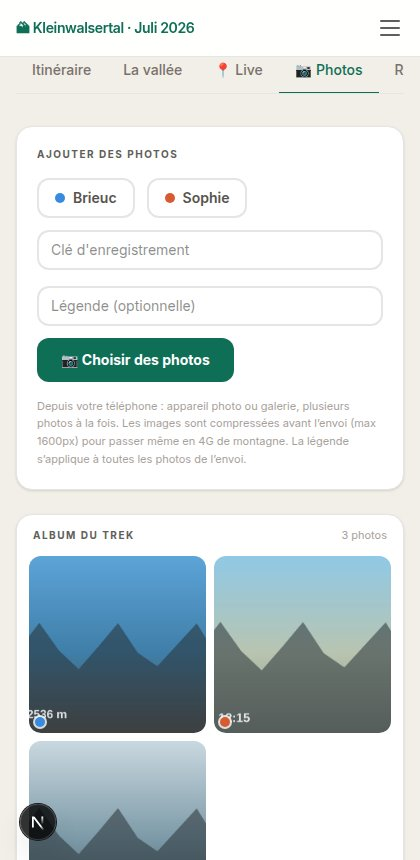
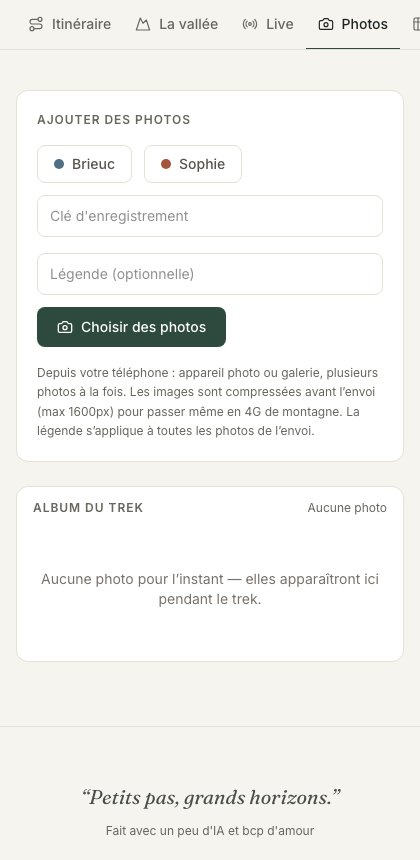
Update README for the redesign and refresh screenshots
- Document the new design (forest palette, lucide icons, photo hero,
  single sticky tab bar, mountain favicon)
- Fraunces replaces Playfair Display; add lucide-react to the stack
- Drop emoji from tab names to match the UI
- Recapture all eight screenshots against the redesigned app

diff --git a/README.md b/README.md
@@ -12,14 +12,21 @@ A single-page Next.js app that turns structured data files into a full interacti
 - **Overview map** — the whole trek on OpenTopoMap tiles, one colour per day, drawn from real trail geometry. Loads as a clean overview; clicking a trail, its J1–J4 badge, or a day card focuses that day (numbered step waypoints, zoom, recap scroll). Bus and cable-car transfers render as dashed legs
 - **Itinerary** — day cards that expand into full details: step-by-step route, must-sees, bonus tips, warnings, practical info, and accommodation. Day 1 starts on foot from the Hotel Jagdhof; Day 4 loops over the Gottesacker back to a second night at the A-ROSA
 - **La vallée** — the Kleinwalsertal in five illustrated chapters (the enclave, the Walser people, the summits, the Gottesacker karst, the Breitachklamm) with freely-licensed Wikimedia Commons photos and learn-more links
-- **📍 Live** — record your GPS track from a phone (Brieuc in azure, Sophie in coral, start/stop, shared record key) and let visitors watch both positions update on the map every 15 s, with live/last-seen status chips and a **position journal**: one reverse-geocoded entry per minute (place, time, exact coordinates)
-- **📷 Photos** — a shared trek album: upload photos straight from the phone (camera or gallery, multi-select, optional caption, same record key as Live). Images are downscaled client-side before upload so they pass on mountain 4G; visitors see the album update as the hike goes on
+- **Live** — record your GPS track from a phone (Brieuc in azure, Sophie in coral, start/stop, shared record key) and let visitors watch both positions update on the map every 15 s, with live/last-seen status chips and a **position journal**: one reverse-geocoded entry per minute (place, time, exact coordinates)
+- **Photos** — a shared trek album: upload photos straight from the phone (camera or gallery, multi-select, optional caption, same record key as Live). Images are downscaled client-side before upload so they pass on mountain 4G; visitors see the album update as the hike goes on
 - **Summary table** — all 4 days compared side by side
 - **Météo** — live forecast for each stage at its high point, altitude-adjusted (Open-Meteo), with storm/wind warnings and links to specialist mountain weather sites
 - **Sécurité** — tap-to-call emergency numbers (140 / 144 / 112) and mountain safety tips adapted from the official Vorarlberg Tourismus guidance
 - **Checklist** — gear to pack, with tick-off checkboxes
 
 Every tab is deep-linkable (`/#meteo`, `/#securite`…) and the back button walks through tabs.
+
+### Design
+
+- Calm palette: one deep forest primary over warm neutrals, with muted ochre / clay / glacier tones for callouts and difficulty badges
+- [Lucide](https://lucide.dev) line icons throughout — no emoji
+- Hero over a Wikimedia Commons photo of the Widderstein; a brand bar on top and a single sticky tab bar aligned with the content column
+- Favicon and Apple touch icon reuse the brand bar's mountain (white outline on forest green)
 
 ### SEO & accessibility
 
@@ -37,20 +44,21 @@ Every tab is deep-linkable (`/#meteo`, `/#securite`…) and the back button walk
 | ![Day recap — step by step](docs/screenshots/day-detail.png) | ![Météo — live forecast per stage](docs/screenshots/meteo.png) |
 | *Day recap — step-by-step route* | *Météo — altitude-adjusted forecast* |
 | ![La vallée — five illustrated chapters](docs/screenshots/vallee.png) | ![Live — GPS tracking on the valley map](docs/screenshots/live.jpg) |
-| *La vallée — five illustrated chapters* | *📍 Live — GPS tracking for friends & family* |
+| *La vallée — five illustrated chapters* | *Live — GPS tracking for friends & family* |
 | ![Sécurité — emergency numbers and safety tips](docs/screenshots/securite.png) | ![Photos — shared trek album with phone uploads](docs/screenshots/photos.jpg) |
-| *Sécurité — tap-to-call emergency numbers* | *📷 Photos — shared album, uploads from the phone* |
+| *Sécurité — tap-to-call emergency numbers* | *Photos — shared album, uploads from the phone* |
 
 ## Stack
 
 - [Next.js 16](https://nextjs.org) (App Router) — including an API route for the live tracker
 - [Tailwind CSS v4](https://tailwindcss.com)
+- [lucide-react](https://lucide.dev) icons
 - [Leaflet](https://leafletjs.com) + [OpenTopoMap](https://opentopomap.org) tiles
 - [Open-Meteo](https://open-meteo.com) forecast API (no key required)
 - [Upstash Redis](https://upstash.com) (Vercel Marketplace) for live-tracking storage and the photo index — in-memory fallback in local dev
 - [Vercel Blob](https://vercel.com/docs/vercel-blob) for photo storage (`BLOB_READ_WRITE_TOKEN`) — inline data URLs in local dev
 - [Nominatim](https://nominatim.org) reverse geocoding for the position journal
-- [Playfair Display](https://fonts.google.com/specimen/Playfair+Display) + [Inter](https://fonts.google.com/specimen/Inter) via `next/font`
+- [Fraunces](https://fonts.google.com/specimen/Fraunces) + [Inter](https://fonts.google.com/specimen/Inter) via `next/font`
 - TypeScript
 
 ## Data
